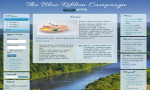
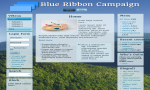
Added updated and untracked imgages after upgrade and modifications

diff --git a/brc/templates/html.tpl.php b/brc/templates/html.tpl.php
@@ -6,16 +6,17 @@
   <?php print $head; ?>
   <title><?php print $head_title; ?></title>
   <?php print $styles; ?>
-  <?php print art_compatible_scripts($scripts); ?>
-  <!-- Created by Artisteer v4.1.0.59861 -->
+  <?php print $scripts; ?>
+  <!-- Created by Artisteer v4.2.0.60623 -->
 
-<meta name="viewport" content="initial-scale = 1.0, maximum-scale = 1.0, user-scalable = no, width = device-width">
+<meta name="viewport" content="initial-scale = 1.0, maximum-scale = 1.0, user-scalable = no, width = device-width" />
 
 <!--[if lt IE 9]><script src="https://html5shiv.googlecode.com/svn/trunk/html5.js"></script><![endif]-->
 
 <!--[if lte IE 7]><link rel="stylesheet" href="<?php echo base_path() . $directory; ?>/style.ie7.css" media="screen" /><![endif]-->
 
-<link rel="stylesheet" type="text/css" href="http://fonts.googleapis.com/css?family=Allura&amp;subset=latin">
+<link rel="stylesheet" type="text/css" href="http://fonts.googleapis.com/css?family=Quando&amp;subset=latin" />
+
 
 
 </head>
